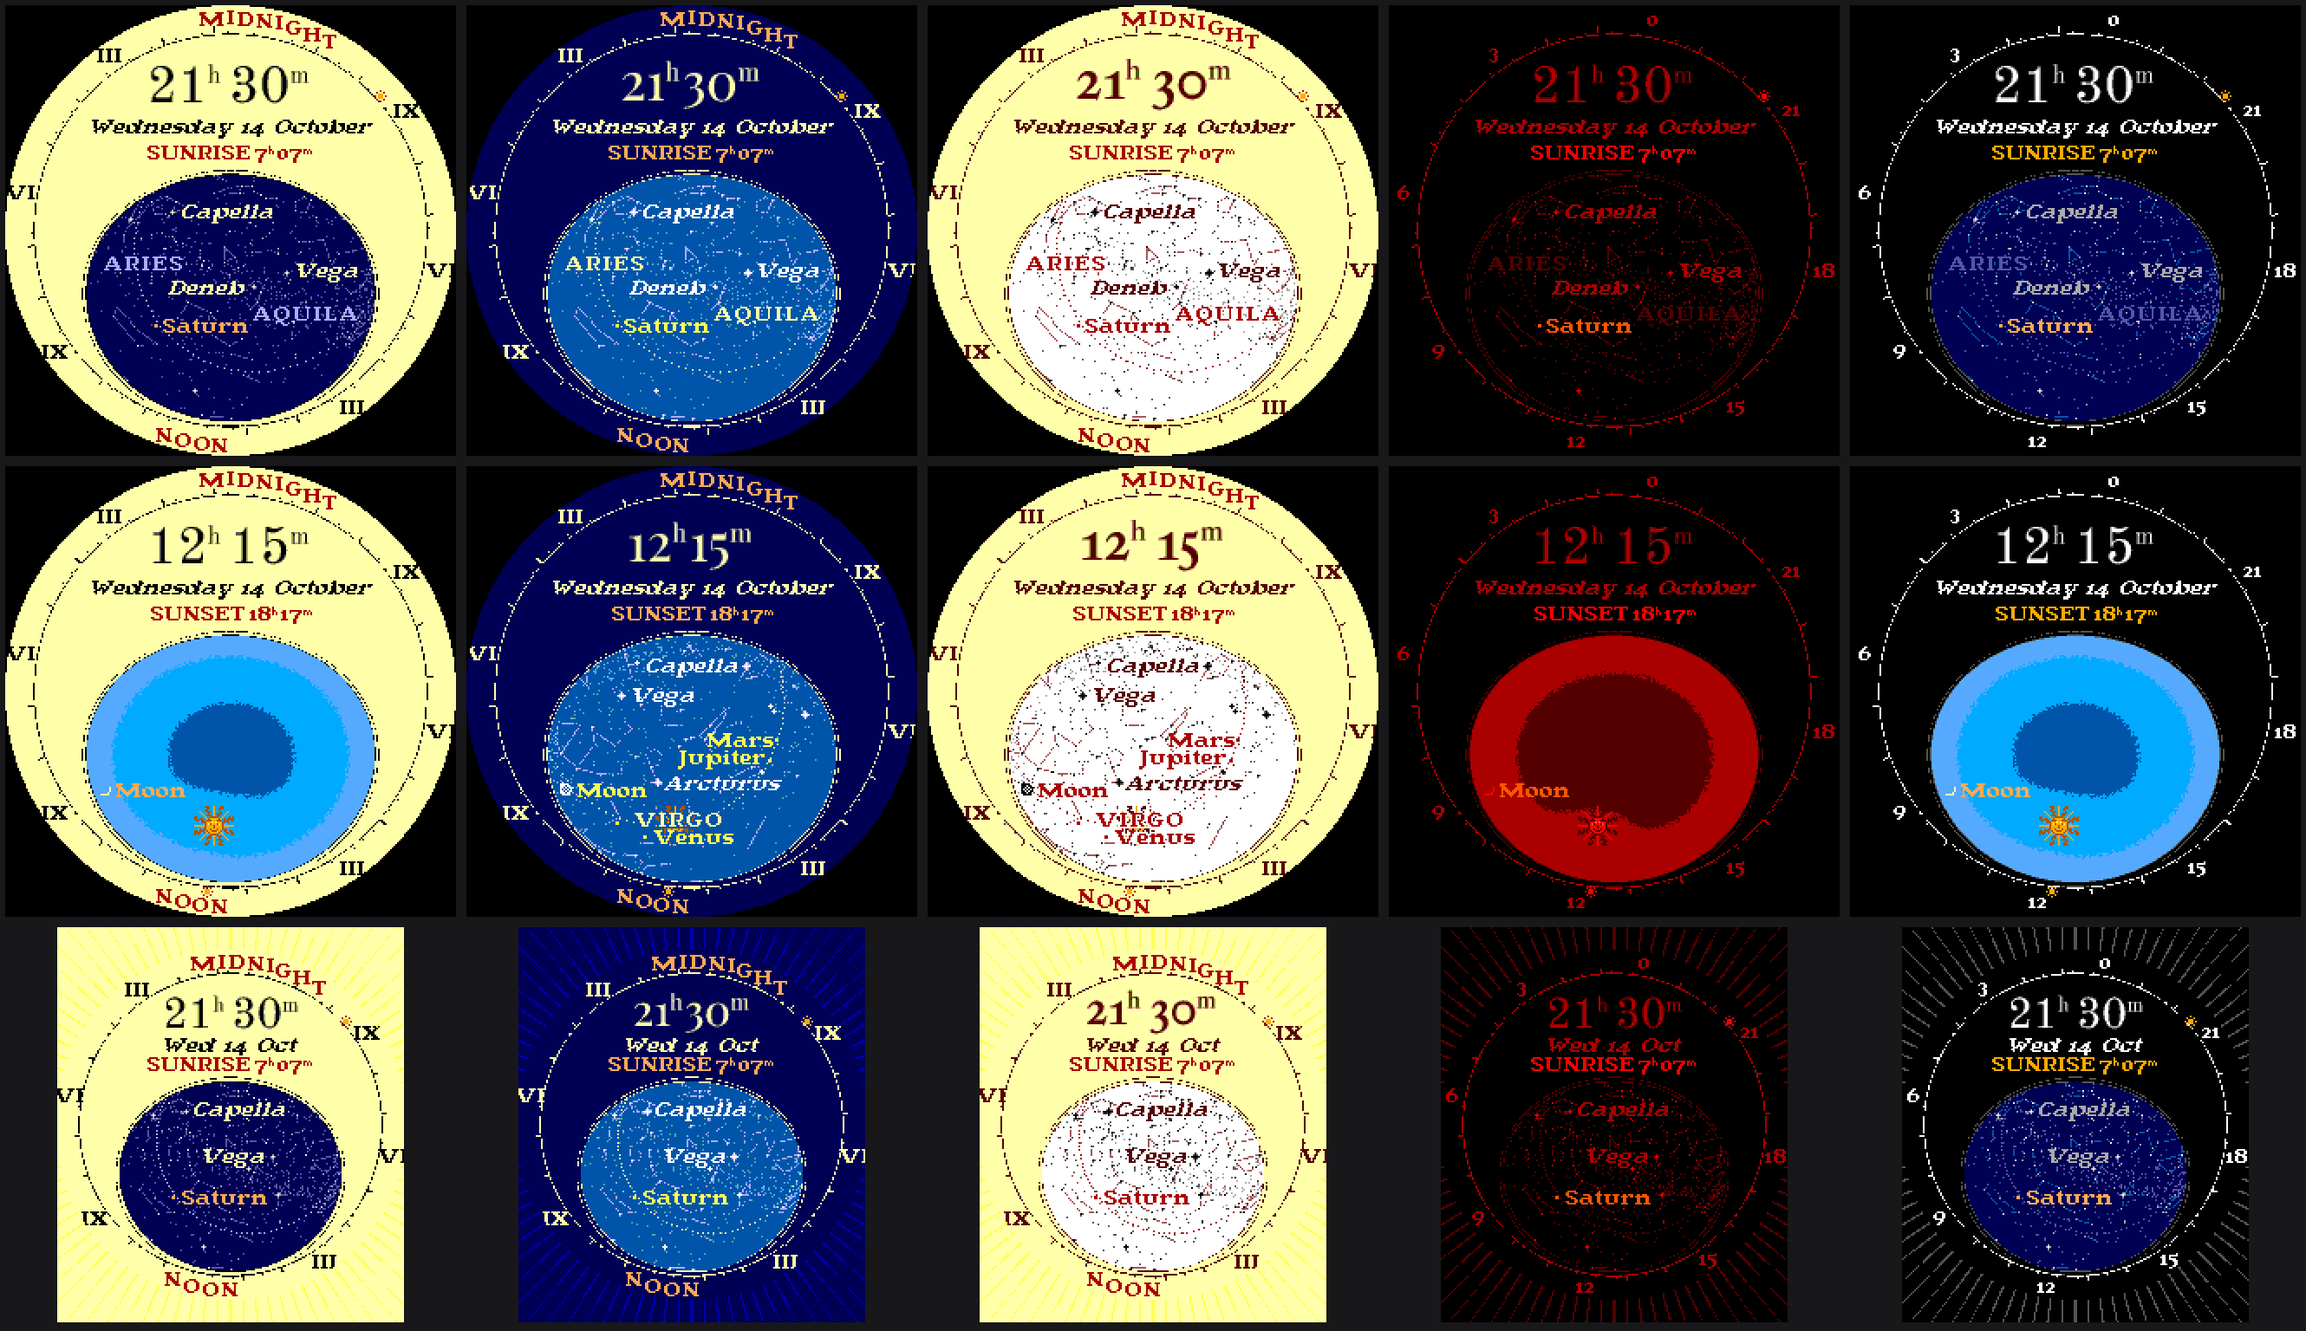
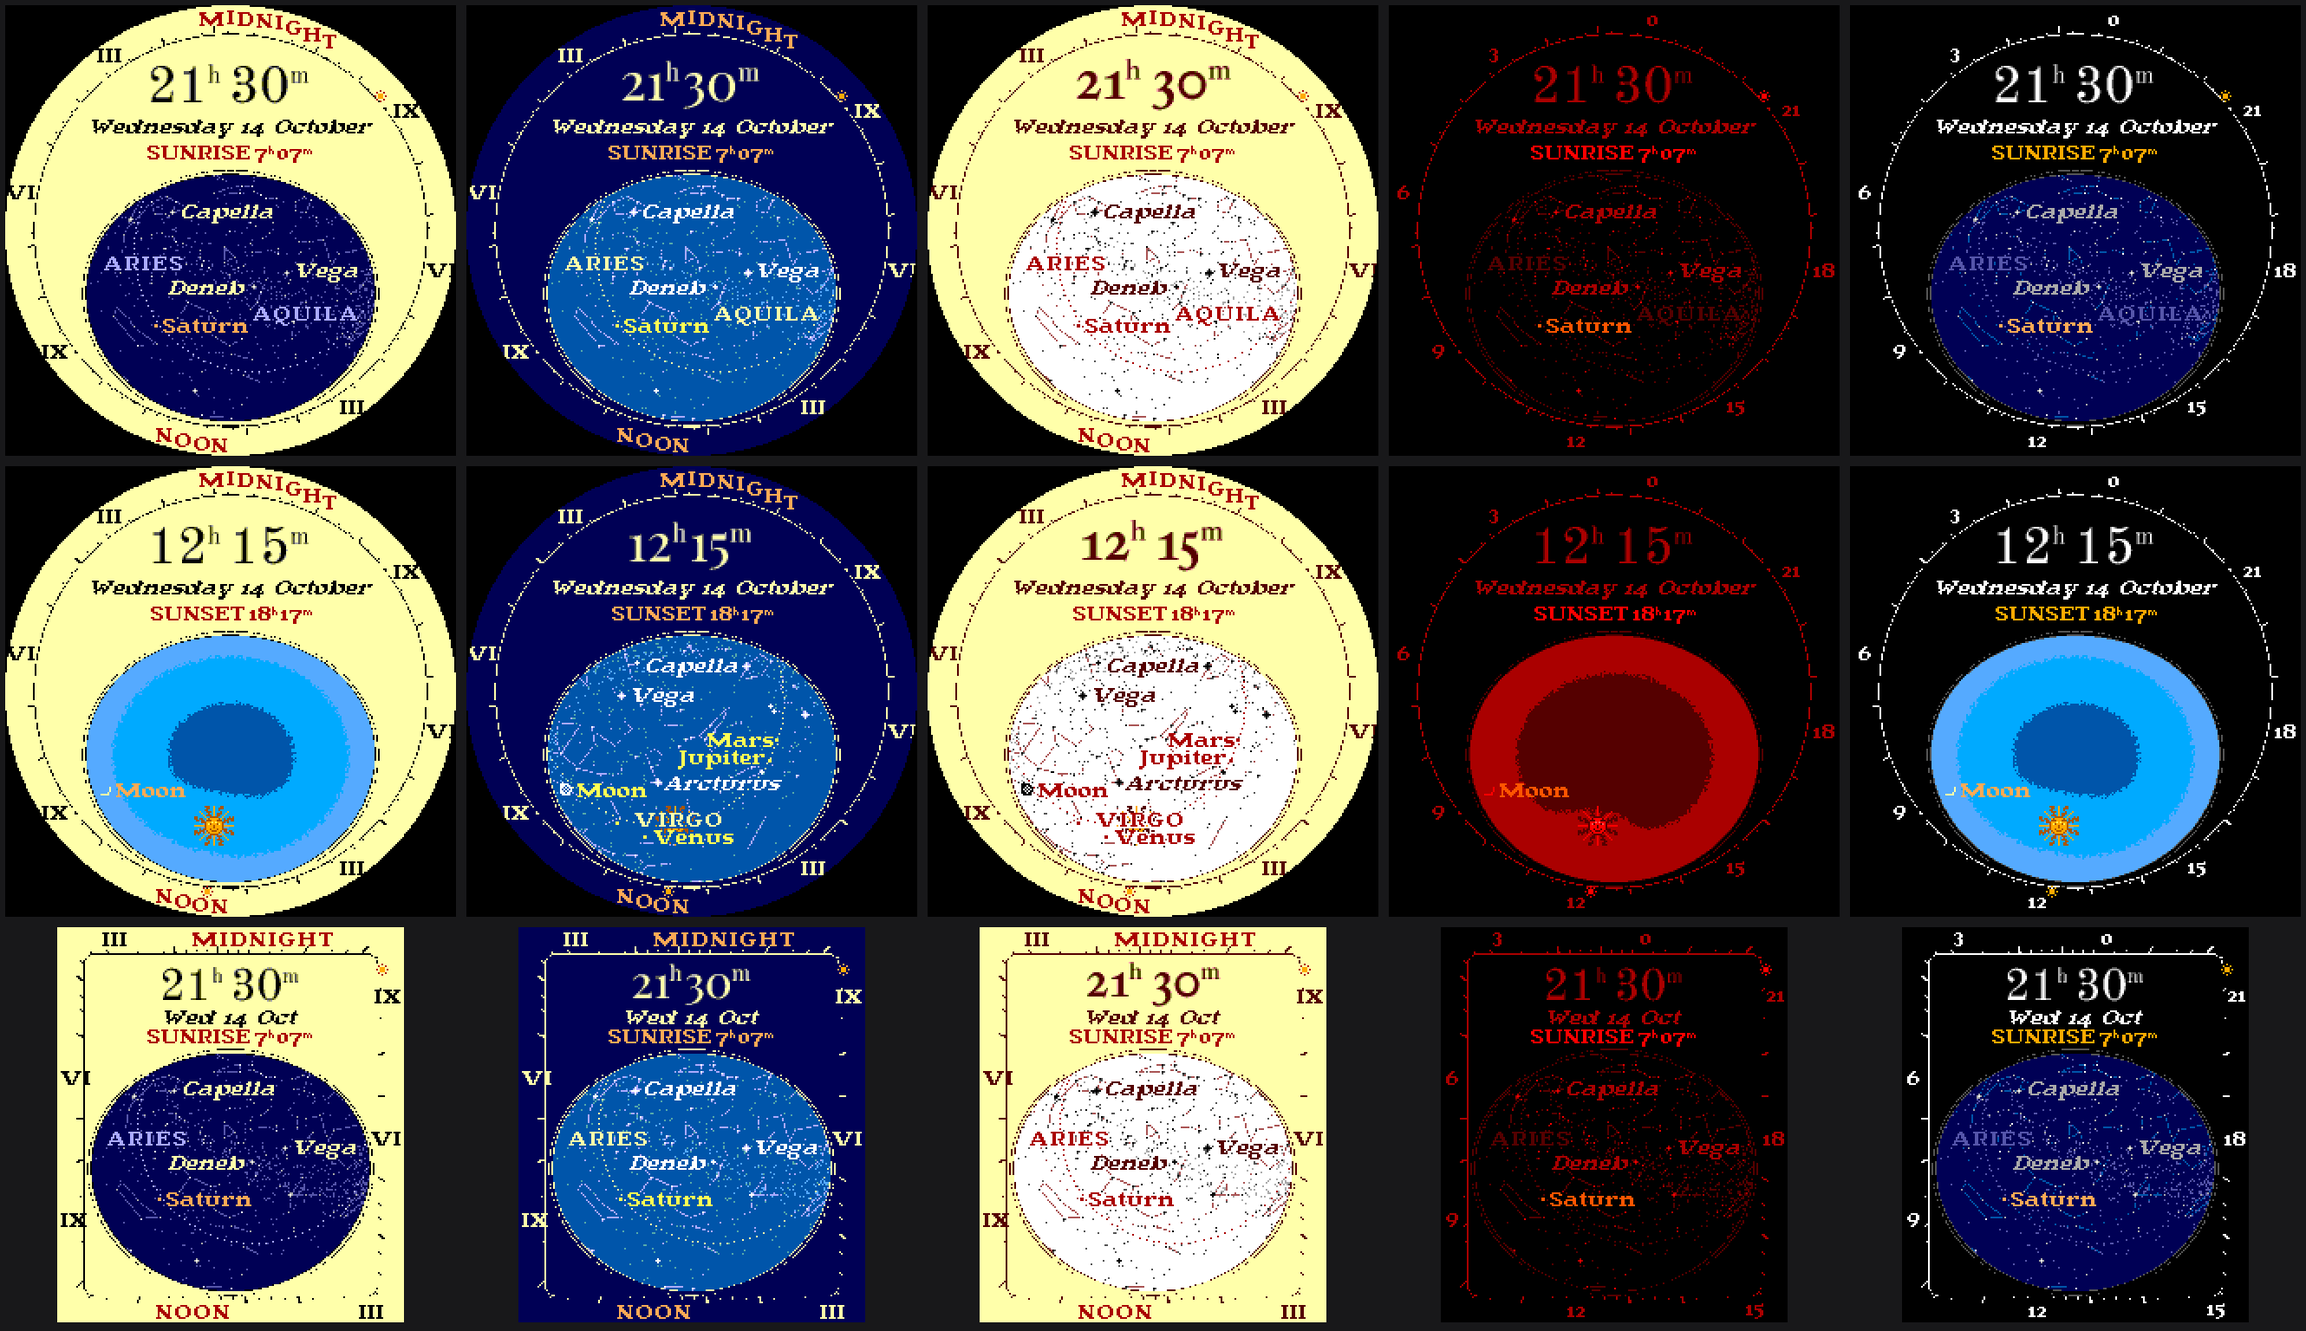
The Time 2 first: a ring along the screen's edges, a larger window
On the Time 2 the 24-hour ring becomes a rounded rectangle along the
screen's edges (RectDial). The window grows to 137 pixels across, near
the Round 2's, instead of 109 inside a circle. The pole sits where the
window fits under the time. Each hour mark sits where that hour's ray from
the pole meets the ring (track_point), unevenly along the straight sides as
on a rectangular sundial. MIDNIGHT and NOON run straight along the top and
bottom; side numerals stay clear of the screen's edges. The README now leads
with a day on the Time 2.

diff --git a/proto/plates.py b/proto/plates.py
@@ -79,6 +79,44 @@ def constellations():
     return CONSTELLATIONS
 
 
+def track_point(dial, a_deg, inset):
+    """Where the ray from the pole at dial angle `a_deg` (from the bottom, anticlockwise) meets the ring's
+    track `inset` pixels in from its outer edge: a circle, or on the Time 2 a rounded rectangle."""
+    a = math.radians(a_deg)
+    dx, dy = math.sin(a), math.cos(a)
+    if not getattr(dial, "rect", False):
+        r = dial.R - inset
+        return dial.cx + r * dx, dial.cy + r * dy
+    mx, my = dial.w / 2, dial.h / 2
+    hx, hy, rc = dial.w / 2 - inset, dial.h / 2 - inset, max(2.0, dial.rc - inset)
+    def sdf(x, y):
+        qx, qy = abs(x - mx) - (hx - rc), abs(y - my) - (hy - rc)
+        return math.hypot(max(qx, 0), max(qy, 0)) + min(max(qx, qy), 0) - rc
+    lo, hi = 0.0, 600.0
+    for _ in range(48):
+        mid = (lo + hi) / 2
+        if sdf(dial.cx + mid * dx, dial.cy + mid * dy) < 0:
+            lo = mid
+        else:
+            hi = mid
+    return dial.cx + lo * dx, dial.cy + lo * dy
+
+
+class RectDial(Dial):
+    """The Time 2's layout: the ring a rounded rectangle along the screen's edges, the time across the
+    top, and the window as large as the rest of the card allows, the pole placed to suit it."""
+
+    def __init__(self, w, h, lat, lon, band=15.0, block=58.0, rc=22.0):
+        super().__init__(w, h, lat, lon)
+        self.rect, self.rc, self.band = True, rc, band
+        top, bottom = band + block, h - band - 3
+        self.k = (bottom - top) / 180.0                # the window spans 180 degrees from its top to its bottom
+        self.k = min(self.k, (w / 2 - band - 6) / 90.0)
+        self.cy = top + abs(lat) * self.k
+        self.r_disc = self.reach * self.k
+        self.R = min(w, h) / 2
+
+
 def nearest(img):
     return (np.clip(np.floor(np.clip(img, 0, 255) / 85 + 0.5), 0, 3) * 85).astype(np.uint8)
 
@@ -323,26 +361,34 @@ def render(when, dial, sky, tz, plate="planisphere", round_screen=True, corners=
             if place(pixel_text(name.upper(), track=1), x, y, P["const"], centred=True):
                 cshown += 1
 
-    # the jacket: the 24-hour ring, set for civil time, read by the Sun's pointer
+    # the jacket: the 24-hour ring, set for civil time, read by the Sun's pointer. On the Round 2 a circle;
+    # on the Time 2 a rounded rectangle along the screen's edges, its marks where the hour's ray from the
+    # pole meets it (unevenly spaced along the straight sides, as hour lines on a rectangular sundial)
+    rect = getattr(dial, "rect", False)
     R = dial.R
+    ins = (lambda f: (1 - f) * R) if not rect else (lambda f: {0.875: 15.0, 0.905: 11.0, 0.888: 13.0, 0.948: 6.5, 0.895: 12.0}[f])
     sun_ang = lst - pos["sun"][0]
     minutes = local.hour * 60 + local.minute + local.second / 60
     ring = lambda m: sun_ang + (m - minutes) * 0.25
     dots = Image.new("L", (W * SS, H * SS), 0)
     for q in range(96):
-        a = math.radians(ring(q * 15))
-        s, c = math.sin(a), math.cos(a)
-        r0, r1 = (R * 0.875, R * 0.905) if q % 4 == 0 else (R * 0.875, R * 0.888)
+        a = ring(q * 15)
         if q % 4 == 0 and (q // 4) % 3 == 0:
             continue
-        ImageDraw.Draw(dots).line([((dial.cx + r0 * s) * SS, (dial.cy + r0 * c) * SS), ((dial.cx + r1 * s) * SS, (dial.cy + r1 * c) * SS)],
-                                  fill=255, width=max(1, round(SS * (0.9 if q % 4 == 0 else 0.6))))
+        x0, y0 = track_point(dial, a, ins(0.875))
+        x1, y1 = track_point(dial, a, ins(0.905) if q % 4 == 0 else ins(0.888))
+        ImageDraw.Draw(dots).line([(x0 * SS, y0 * SS), (x1 * SS, y1 * SS)], fill=255, width=max(1, round(SS * (0.9 if q % 4 == 0 else 0.6))))
     d = np.asarray(dots, np.float64).reshape(H, SS, W, SS).mean(axis=(1, 3)) / 255
     img[(d > 0.42) & ~inside] = P["ink"]
-    # a fine circle closing the scale
+    # a fine line closing the scale
     circ = Image.new("L", (W * SS, H * SS), 0)
-    rr = R * 0.873 * SS
-    ImageDraw.Draw(circ).ellipse([dial.cx * SS - rr, dial.cy * SS - rr, dial.cx * SS + rr, dial.cy * SS + rr], outline=255, width=max(1, round(SS * 0.6)))
+    if rect:
+        e = ins(0.875)
+        ImageDraw.Draw(circ).rounded_rectangle([e * SS, e * SS, (W - e) * SS, (H - e) * SS], radius=(dial.rc - e) * SS,
+                                               outline=255, width=max(1, round(SS * 0.6)))
+    else:
+        rr = R * 0.873 * SS
+        ImageDraw.Draw(circ).ellipse([dial.cx * SS - rr, dial.cy * SS - rr, dial.cx * SS + rr, dial.cy * SS + rr], outline=255, width=max(1, round(SS * 0.6)))
     cimg = np.asarray(circ, np.float64).reshape(H, SS, W, SS).mean(axis=(1, 3)) / 255
     img[(cimg > 0.42) & ~inside] = P["ink"]
     if P["ring"] == "roman":
@@ -352,8 +398,9 @@ def render(when, dial, sky, tz, plate="planisphere", round_screen=True, corners=
     for hr, text in labels.items():
         ang = ring(hr * 60)
         a = math.radians(ang)
-        rr = R * 0.948
-        if len(text) > 3:                              # words follow the ring, each letter upright
+        x, y = track_point(dial, ang, ins(0.948))
+        if len(text) > 3 and not rect:                 # on a circle, words follow it, each letter upright
+            rr = R * 0.948
             up = math.cos(a) < 0
             masks = [pixel_text(ch) for ch in text]
             gap = 2
@@ -364,37 +411,38 @@ def render(when, dial, sky, tz, plate="planisphere", round_screen=True, corners=
                 aa = math.radians(ang + (-1 if up else 1) * math.degrees(mid / rr))
                 stamp(img, m, dial.cx + rr * math.sin(aa), dial.cy + rr * math.cos(aa), P["accent"])
                 s += m.shape[1] + gap
+        elif len(text) > 3:                            # on a rectangle's top and bottom, straight
+            stamp(img, pixel_text(text, track=1), x, y, P["accent"])
         else:
-            stamp(img, pixel_text(text), dial.cx + rr * math.sin(a), dial.cy + rr * math.cos(a), P["ink"])
-    # the Sun's pointer
-    a = math.radians(sun_ang)
-    s, c = math.sin(a), math.cos(a)
-    pip = Image.new("L", (W * SS, H * SS), 0)
-    tip, base_r, half = R * 0.873, R * 0.915, R * 0.026
-    ImageDraw.Draw(pip).polygon([((dial.cx + tip * s) * SS, (dial.cy + tip * c) * SS),
-                                 ((dial.cx + base_r * s - half * c) * SS, (dial.cy + base_r * c + half * s) * SS),
-                                 ((dial.cx + base_r * s + half * c) * SS, (dial.cy + base_r * c - half * s) * SS)], fill=255)
-    px_, py_ = dial.cx + R * 0.895 * s, dial.cy + R * 0.895 * c
+            m = pixel_text(text)
+            if rect:                                   # kept clear of the screen's edges
+                hw = m.shape[1] / 2
+                x = min(max(x, hw + 2), W - hw - 2)
+                y = min(max(y, 6), H - 6)
+            stamp(img, m, x, y, P["ink"])
+    # the Sun's pointer: a small rayed Sun on the ring
+    px_, py_ = track_point(dial, sun_ang, ins(0.895))
     flair.paint(img, flair.little_sun(), px_, py_, {1: P["accent"], 2: c8(3, 2, 0) if P["window"] != "red" else c8(3, 0, 0)})
 
     # the time, as an astronomer writes it, with the date and the Sun's next rising or setting
     top_of_window = dial.cy - abs(dial.lat) * dial.k
-    ring_in = dial.cy - R * 0.875
+    ring_in = dial.cy - R * 0.875 if not rect else ins(0.875)
     span = top_of_window - ring_in
-    big = 30 if W >= 240 else 25
-    ink(img, astro_time(str(local.hour), f"{local.minute:02d}", fn, big, fw, feats=("onum", "lnum")[:1]), dial.cx, ring_in + span * 0.36, P["ink"])
+    big = 30 if W >= 240 else 26
+    ink(img, astro_time(str(local.hour), f"{local.minute:02d}", fn, big, fw, feats=("onum", "lnum")[:1]), dial.cx,
+        ring_in + span * (0.36 if not rect else 0.31), P["ink"])
     days = ["Monday", "Tuesday", "Wednesday", "Thursday", "Friday", "Saturday", "Sunday"]
     months = ["January", "February", "March", "April", "May", "June", "July", "August", "September", "October", "November", "December"]
     date = pixel_text(f"{days[local.weekday()]} {local.day} {months[local.month - 1]}", oblique=True)
     if date.shape[1] > span * 2.1:
         date = pixel_text(f"{days[local.weekday()][:3]} {local.day} {months[local.month - 1][:3]}", oblique=True)
-    stamp(img, date, dial.cx, ring_in + span * 0.665, P["ink"])
+    stamp(img, date, dial.cx, ring_in + span * (0.665 if not rect else 0.64), P["ink"])
     kind, at = next_sun_event(when, dial.lat, dial.lon)
     if kind:
         t_ = at.astimezone(tz)
-        stamp(img, concat(pixel_text(kind), time_text(t_.hour, t_.minute), gap=3), dial.cx, ring_in + span * 0.845, P["accent"])
+        stamp(img, concat(pixel_text(kind), time_text(t_.hour, t_.minute), gap=3), dial.cx, ring_in + span * (0.845 if not rect else 0.835), P["accent"])
     # the Time 2's corners: a quiet woodcut texture on the card, nothing to read
-    if not round_screen and corners:
+    if not round_screen and corners and not rect:
         ornament(img, dial, P, corners)
     if round_screen:
         img[np.hypot(xx + 0.5 - dial.cx, yy + 0.5 - dial.cy) > W / 2] = 0
@@ -443,7 +491,7 @@ if __name__ == "__main__":
     out = ROOT / "out"
     when = datetime(2026, 10, 14, 21, 30, tzinfo=NY)
     noon = datetime(2026, 10, 14, 12, 15, tzinfo=NY)
-    r2, t2 = Dial(260, 260, 40.71, -74.01), Dial(200, 228, 40.71, -74.01)
+    r2, t2 = Dial(260, 260, 40.71, -74.01), RectDial(200, 228, 40.71, -74.01)
     names = list(PLATES)
     S = Image.new("RGB", (len(names) * 266, 266 * 2 + 236), (24, 24, 26))
     for i, pl in enumerate(names):

diff --git a/proto/film_plates.py b/proto/film_plates.py
@@ -11,7 +11,7 @@ from PIL import Image
 
 sys.path.insert(0, str(Path(__file__).parent))
 from render import Dial, load_sky
-from plates import render, PLATES
+from plates import render, PLATES, RectDial
 
 ROOT = Path(__file__).resolve().parents[1]
 NY = ZoneInfo("America/New_York")
@@ -19,15 +19,18 @@ NY = ZoneInfo("America/New_York")
 
 def main():
     sky = load_sky(4.6)
-    r2 = Dial(260, 260, 40.71, -74.01)
+    r2, t2 = Dial(260, 260, 40.71, -74.01), RectDial(200, 228, 40.71, -74.01)
     start = datetime(2026, 10, 14, 12, 0, tzinfo=NY)
-    frames = [Image.fromarray(render((start + timedelta(minutes=k)).astimezone(timezone.utc), r2, sky, NY, "planisphere")).resize((520, 520), Image.NEAREST)
-              for k in range(0, 24 * 60, 8)]
-    pal = [f.quantize(colors=64, method=Image.Quantize.MEDIANCUT, dither=Image.Dither.NONE) for f in frames]
-    pal[0].save(ROOT / "docs" / "plate-planisphere-day.gif", save_all=True, append_images=pal[1:], duration=70, loop=0, optimize=True)
+    for name, dial, rnd, size in (("time2", t2, False, (400, 456)), ("round2", r2, True, (520, 520))):
+        frames = [Image.fromarray(render((start + timedelta(minutes=k)).astimezone(timezone.utc), dial, sky, NY, "planisphere", rnd)).resize(size, Image.NEAREST)
+                  for k in range(0, 24 * 60, 8)]
+        pal = [f.quantize(colors=64, method=Image.Quantize.MEDIANCUT, dither=Image.Dither.NONE) for f in frames]
+        out = "plate-planisphere-day.gif" if name == "round2" else "plate-planisphere-day-time2.gif"
+        pal[0].save(ROOT / "docs" / out, save_all=True, append_images=pal[1:], duration=70, loop=0, optimize=True)
     sheet = Image.open(ROOT / "out" / "plates.png")
     sheet.resize((sheet.width * 2, sheet.height * 2), Image.NEAREST).save(ROOT / "docs" / "plates.png")
     Image.open(ROOT / "out" / "plate-planisphere-night.png").resize((780, 780), Image.NEAREST).save(ROOT / "docs" / "plate-planisphere.png")
+    Image.open(ROOT / "out" / "plate-planisphere-time2.png").resize((600, 684), Image.NEAREST).save(ROOT / "docs" / "plate-planisphere-time2.png")
     Image.open(ROOT / "out" / "plate-flamsteed-night.png").resize((780, 780), Image.NEAREST).save(ROOT / "docs" / "plate-flamsteed.png")
     print(len(frames), "frames")
 

diff --git a/README.md b/README.md
@@ -6,7 +6,9 @@ A watch face prototype for the Pebble Round 2 and Time 2: the sky as it is right
 
 Like Groundtrack's plates, each plate follows a real tradition of sky charts, set in the type of its time. Every plate sets the time the way astronomers write it, **21ʰ 30ᵐ**, large in the card above the window. The small type is pixel type, every letter in whole pixels: Not Jam Old Style (CC0), a pixel serif after the old Garalde faces, with star names leaning in an oblique cut from it a pixel at a time. Under it are the date in italic and the Sun's next rising or setting in small capitals. The sky carries names the way the old atlases letter them: constellations in spaced capitals, stars in italic, planets in small capitals.
 
-![A day on the paper planisphere, eight minutes a frame](docs/plate-planisphere-day.gif)
+![A day on the Time 2, the paper planisphere plate, eight minutes a frame](docs/plate-planisphere-day-time2.gif)
+
+![The same day on the Round 2](docs/plate-planisphere-day.gif)
 
 ![Every plate at 9:30 pm and at noon on the Round 2, and at 9:30 pm on the Time 2](docs/plates.png)
 
@@ -24,11 +26,15 @@ The planisphere, observatory and night plates show the live sky in their window:
 
 ![Flamsteed's plate at 9:30 pm](docs/plate-flamsteed.png)
 
-## On the Round 2, and the Time 2
+## On the Time 2, and the Round 2
 
-The planisphere is a round instrument, and the Round 2 is its home. On the Time 2 the card fills the rectangle, and its corners carry no information, only a woodcut texture: fine rays behind the instrument, as engraved title pages put rays behind their centrepiece (stars or an engraver's hatching are the quieter choices, and the corners can also stay plain). By day the Sun in the window is drawn with a face, its rays turning between straight and wavy (after the Sun of May), and a small rayed Sun points at the hour on the ring.
+The Time 2 comes first. On it the ring is a rounded rectangle along the screen's edges, so the window can be as large as on the Round 2 (137 pixels across instead of 109 inside a circle). Each hour mark sits where that hour's ray from the pole meets the ring, so the marks fall unevenly along the straight sides, as hour lines do on a rectangular sundial plate. MIDNIGHT and NOON run straight along the top and bottom edges. On the Round 2 the ring is a circle, with its words lettered round it.
 
-![The Time 2 with rays, stars, hatching and plain corners; the Sun at noon on the paper planisphere and on Burritt's plate](docs/time2-corners.png)
+![Every plate on the Time 2 at 9:30 pm, then the paper planisphere at dusk and at noon](docs/time2-plates.png)
+
+By day the Sun in the window is drawn with a face, its rays turning between straight and wavy (after the Sun of May), and a small rayed Sun points at the hour on the ring. A round ring on the Time 2 is still possible; its corners would then carry only a woodcut texture (rays, stars or hatching), never anything to read:
+
+![The round ring on the Time 2 with rays, stars, hatching and plain corners; the Sun at noon](docs/time2-corners.png)
 
 ## Experimental: the compass, on a flick
 
